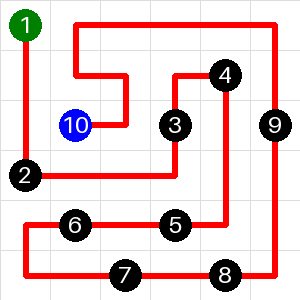
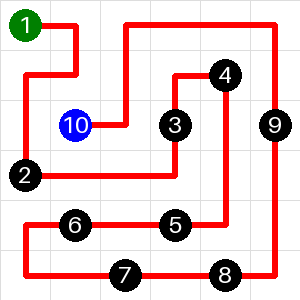
fix border checks

Changed region(s): [[0.06, 0.06, 0.45, 0.27]]

diff --git a/solver.py b/solver.py
@@ -18,18 +18,21 @@ class Solver():
         point = Point() if not coordinate in self.grid else self.grid[coordinate]
         next_value = left[0]
 
+        if r == 3 and c == 4 and next_value == 6 and len(moves) == 35:
+            print("stop")
+
         # right
-        if r+1 < self.size and not point.right:
-            next_moves.append(tuple([r+1, c]))
-        # down
-        if c+1 < self.size and not point.bottom:
+        if c+1 < self.size and not point.right:
             next_moves.append(tuple([r, c+1]))
+        # down
+        if r+1 < self.size and not point.bottom:
+            next_moves.append(tuple([r+1, c]))
         # left
-        if 0 <= r-1 and not point.left:
-            next_moves.append(tuple([r-1, c]))
-        # up
-        if 0 <= c-1 and not point.top:
+        if 0 <= c-1 and not point.left:
             next_moves.append(tuple([r, c-1]))
+        # up
+        if 0 <= r-1 and not point.top:
+            next_moves.append(tuple([r-1, c]))
 
 
         valid = []
@@ -93,18 +96,34 @@ if __name__ == "__main__":
     # else:
     #     print("failed")
 
-    size = 3
-    grid = {}
-    grid[tuple([2,0])] = Point(1)
-    grid[tuple([0,2])] = Point(2)
-    grid[tuple([1,1])] = Point(top=True, bottom=True)
+    # size = 3
+    # grid = {}
+    # grid[tuple([2,0])] = Point(1)
+    # grid[tuple([0,2])] = Point(2)
+    # grid[tuple([1,1])] = Point(top=True, bottom=True)
 
+    # solver = Solver(grid, size)
+    # print("input")
+    # print(solver.grid, solver.size, end="\n\n")
+    # solution = solver.solve()
+    # print("solution")
+    # print(solution, end="\n\n")
+
+    # solved_at = datetime.strftime(datetime.now(), "%Y-%m-%d-%H:%M:%S.%f")
+    # visualise_zip(grid, size, solution, f"{solved_at}")
+
+    size = 6
+    grid = {
+        (0,1): Point(3),
+        (1,1): Point(2, bottom=True),
+        (2,1): Point(top=True),
+        (1,4): Point(5),
+        (3,4): Point(bottom=True),
+        (4,1): Point(1),
+        (4,4): Point(6, top=True),
+        (5,4): Point(4),
+    }
     solver = Solver(grid, size)
-    print("input")
-    print(solver.grid, solver.size, end="\n\n")
     solution = solver.solve()
-    print("solution")
-    print(solution, end="\n\n")
-
     solved_at = datetime.strftime(datetime.now(), "%Y-%m-%d-%H:%M:%S.%f")
     visualise_zip(grid, size, solution, f"{solved_at}")

diff --git a/test.py b/test.py
@@ -94,12 +94,56 @@ class TestSolver(unittest.TestCase):
         }
 
         grid_list = grid_dict_to_list(grid, size)
-        visualise_zip(grid, size, grid_list, "2025_04_21_grid", False)
+        visualise_zip(grid, size, grid_list, "2025_04_21_open_grid", False)
 
         solver = Solver(grid, size)
         solution = solver.solve()
         print(solution)
-        visualise_zip(grid, size, solution, "2025_04_21")
+        visualise_zip(grid, size, solution, "2025_04_21_open")
+
+    def test_can_solve_grid_sample(self):
+        size = 6
+        grid = {
+            (0,0): Point(1),
+            (1,4): Point(4),
+            (2,1): Point(10),
+            (2,3): Point(3),
+            (2,5): Point(9),
+            (3,0): Point(2),
+            (4,1): Point(6),
+            (4,3): Point(5),
+            (5,2): Point(7),
+            (5,4): Point(8),
+        }
+        grid_list = grid_dict_to_list(grid, size)
+        visualise_zip(grid, size, grid_list, "2025_04_21_sample_grid", False)
+
+        solver = Solver(grid, size)
+        solution = solver.solve()
+        # print(solution)
+        visualise_zip(grid, size, solution, "2025_04_21_sample_solution")
+
+
+    def test_can_solve_grid_2025_04_21_step(self):
+        size = 6
+        grid = {
+            (0,1): Point(3),
+            (1,1): Point(2, bottom=True),
+            (2,1): Point(top=True),
+            (1,4): Point(5),
+            (3,4): Point(bottom=True),
+            (4,1): Point(1),
+            (4,4): Point(6, top=True),
+            (5,4): Point(4),
+        }
+
+        grid_list = grid_dict_to_list(grid, size)
+        visualise_zip(grid, size, grid_list, "2025_04_21_step_grid", False)
+
+        solver = Solver(grid, size)
+        solution = solver.solve()
+        print(solution)
+        visualise_zip(grid, size, solution, "2025_04_21_step_solution")
 
 
     def test_can_solve_grid_2025_04_21(self):
